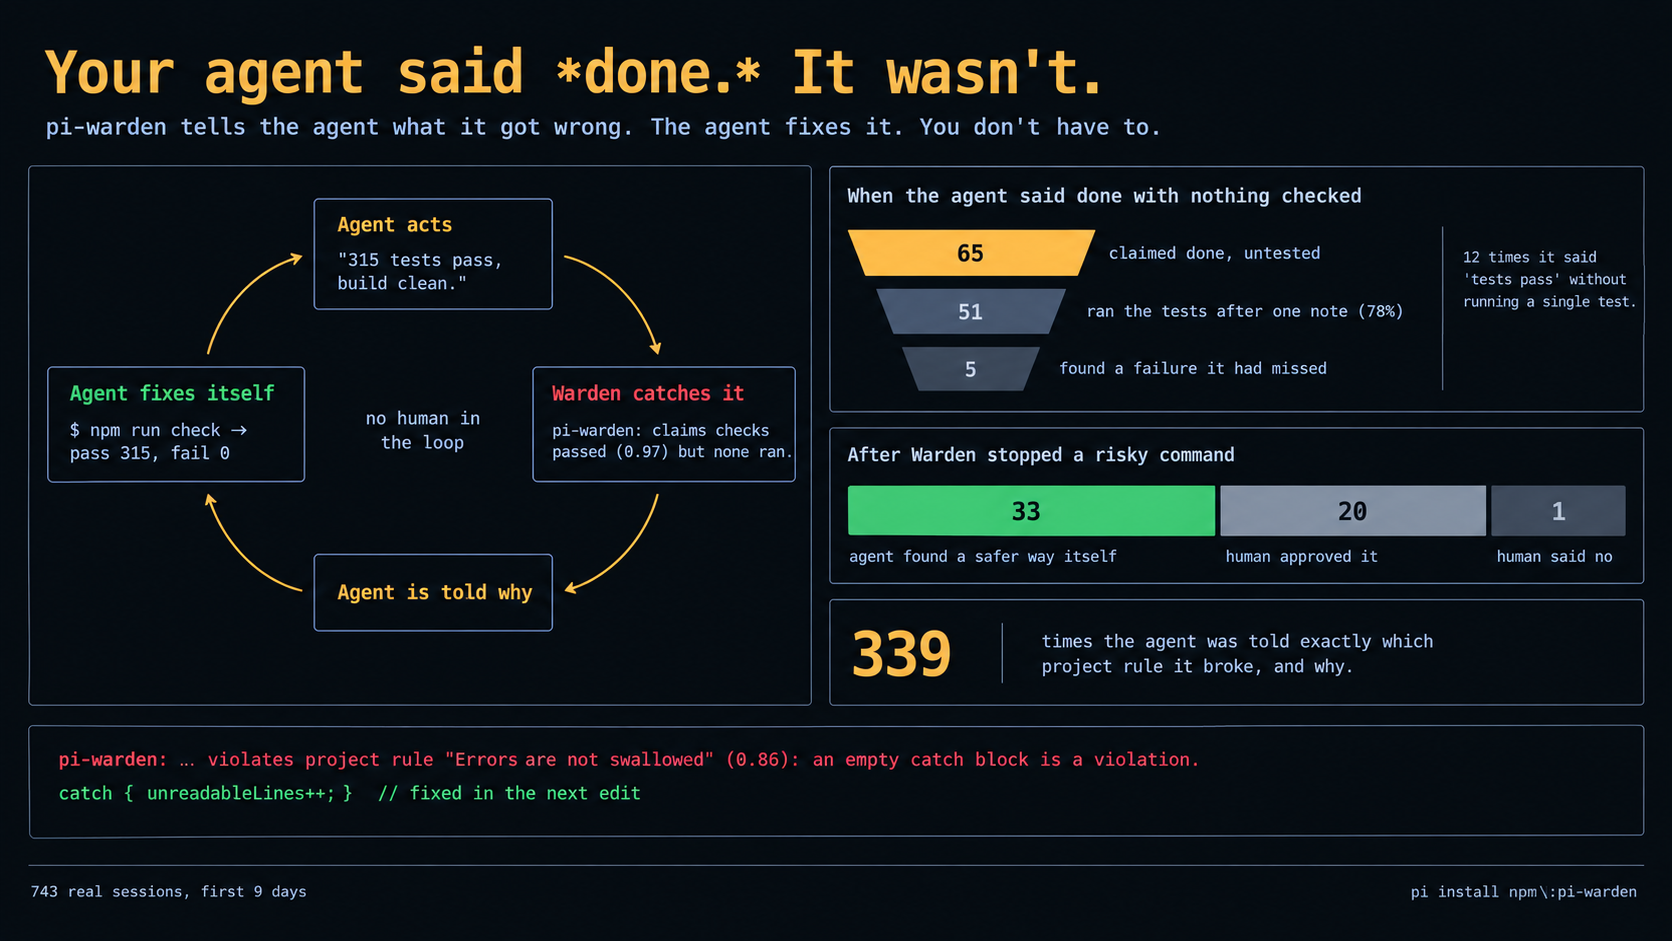
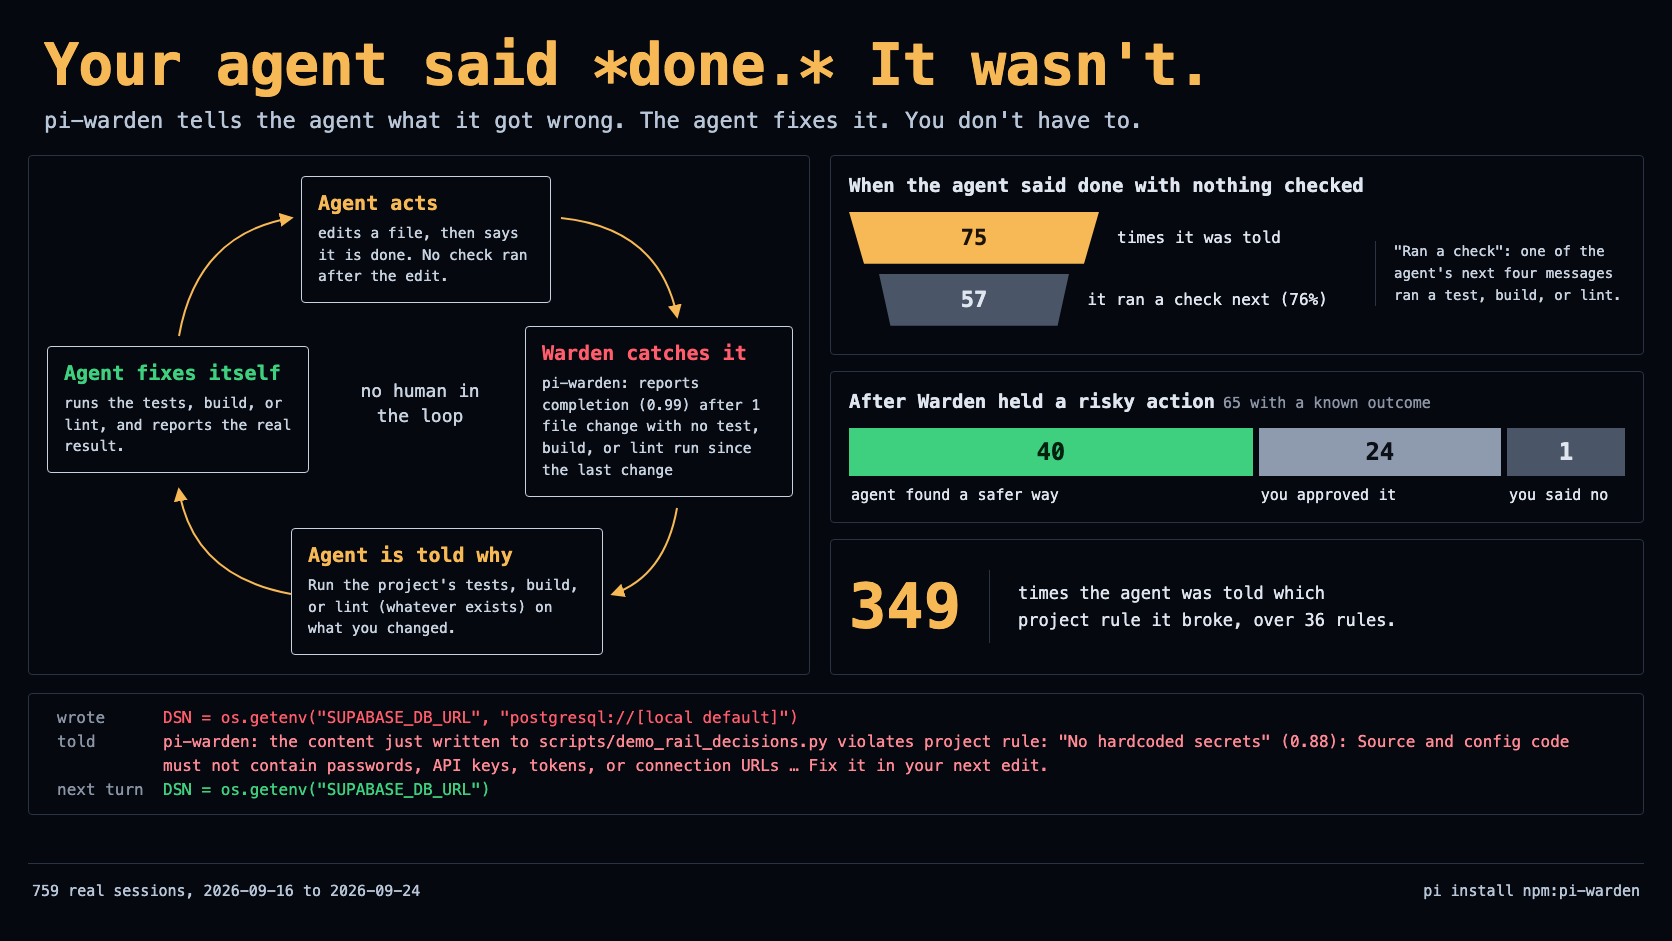
docs: render hero.png from a script with sourced numbers
The hero image had no script and numbers from an early field report. scripts/render-hero.mjs
renders it from docs/hero.html; every number sits in one block with its source line in the
2026-09-24 field report (759 sessions). Unsourced figures are dropped, the example texts come
from docs/examples.md, src/done.ts, and a bench report, and the install line is fixed.

diff --git a/README.md b/README.md
@@ -14,7 +14,7 @@
 
 </div>
 
-![pi-warden tells the agent what it got wrong and the agent fixes it: 65 untested "done" claims, 51 then ran the tests, 5 found a failure it had missed; after a hold the agent found a safer way 33 times](https://raw.githubusercontent.com/DevMortimer/pi-warden/main/docs/hero.png)
+![pi-warden tells the agent what it got wrong and the agent fixes it: told 75 times that it said done with nothing checked, the agent ran a check next 57 times (76%); of 65 held actions with a known outcome, the agent found a safer way 40 times, you approved 24, you said no once; 349 steers named a project rule; 759 real sessions, 2026-09-16 to 2026-09-24](https://raw.githubusercontent.com/DevMortimer/pi-warden/main/docs/hero.png)
 
 <div align="center">
 

diff --git a/CHANGELOG.md b/CHANGELOG.md
@@ -6,7 +6,9 @@ How to keep this current: add the entry in the same pull request as the change, 
 
 ## Unreleased
 
-<!-- Empty. Next release starts here. -->
+### Docs
+
+- `docs/hero.png` is now rendered by `scripts/render-hero.mjs` (`npm run hero`), and every number in it comes from the 2026-09-24 field report (759 sessions); the install line reads `pi install npm:pi-warden`.
 
 ## 0.78.0
 
